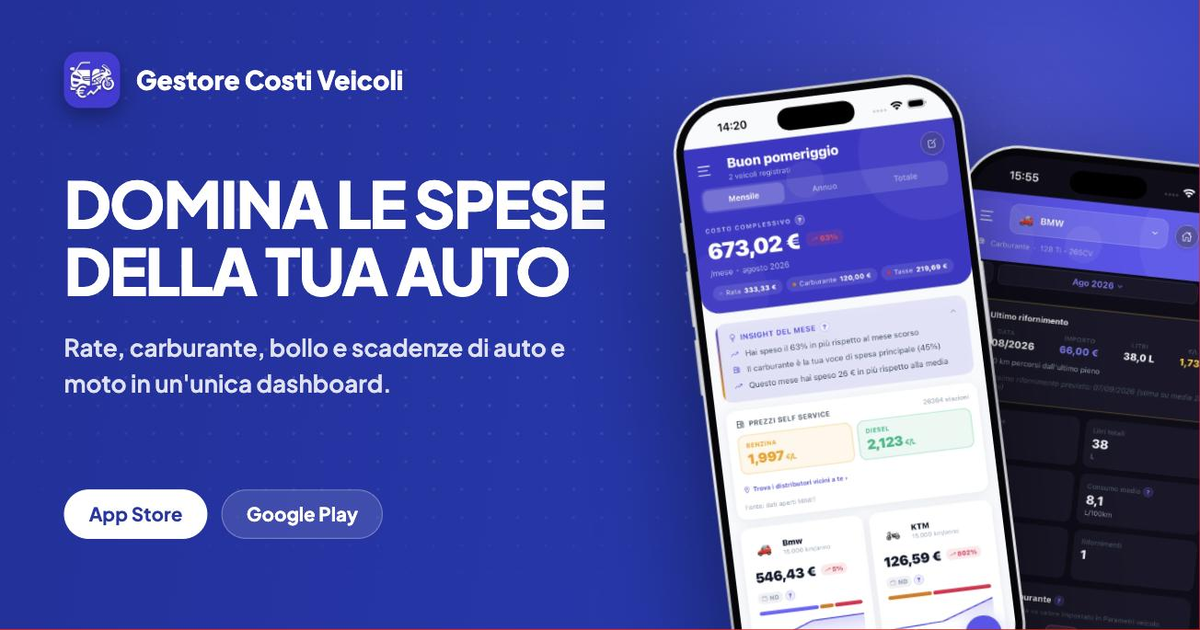
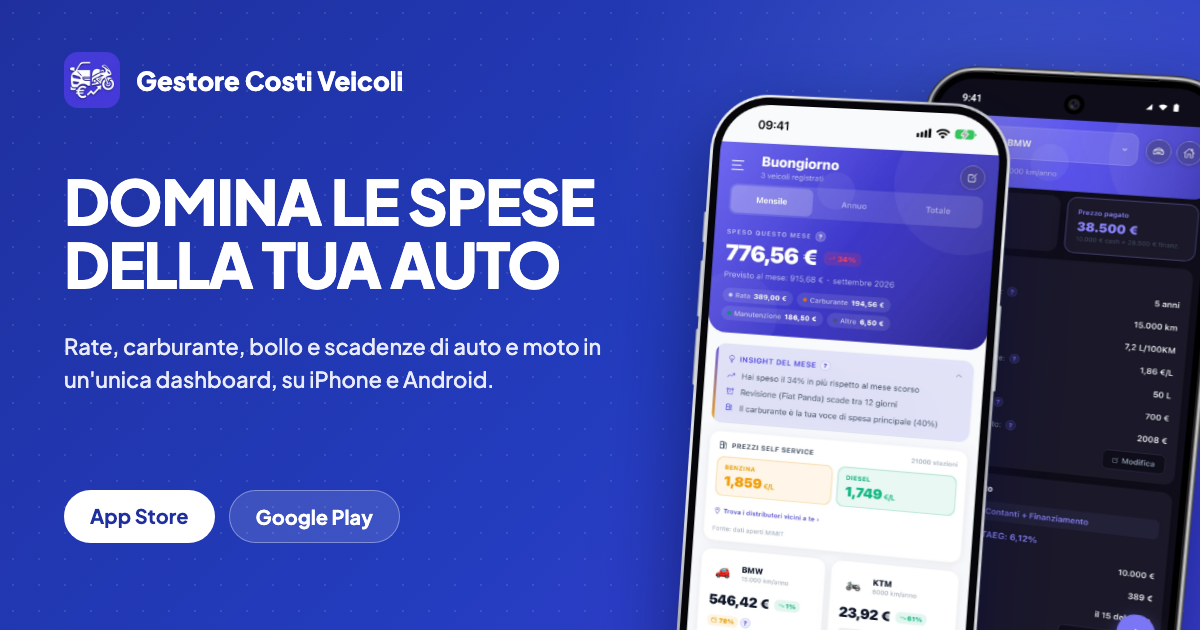
GCV: iPhone e Android alla pari su hero, galleria e widget — hero e og:image con iPhone e Pixel, galleria col selettore iPhone/Android (schermate Android provvisorie nel Pixel 10 Pro), widget nuovi di ottobre con lo stesso collage sulle due piattaforme e il riquadro tonale su Android

diff --git a/progetti/gestore-costi-veicoli.html b/progetti/gestore-costi-veicoli.html
@@ -224,19 +224,26 @@
      riposizionati in percentuale dentro un contenitore con aspect-ratio fisso, così
      la composizione scala identica a ogni larghezza. Le card sono .widget-mockup:
      float + tilt 3D via ../assets/widget-interactive.js. */
-  .wz-collage{ position:relative; width:100%; aspect-ratio:2280/1355; }
+  /* widget di ottobre: grande scuro a sinistra, piccolo in alto a destra (Budget su iPhone, riquadro
+     tonale su Android), medio in basso a destra. Stessa composizione sulle due piattaforme. */
+  .wz-collage{ position:relative; width:100%; aspect-ratio:100/88; }
   .wz-card{ position:absolute; height:auto; filter:drop-shadow(0 30px 50px rgba(0,0,0,.55)); }
-  .wz-azioni{ left:17.7%; top:8.3%;  width:28.9%; z-index:2; }
-  .wz-dark{   left:48.4%; top:11.7%; width:47.2%; z-index:1; }
-  .wz-light{  left:1.9%;  top:62.8%; width:44%;   z-index:3; }
-  .wz-badge-top{ top:-2%; right:-1%; z-index:4 }
-  .wz-badge-mid{ left:68%; top:86%; z-index:4 }
+  .wz-grande{ left:0;   top:2%;  width:58%; z-index:1; }
+  .wz-piccolo{ left:66%; top:6%;  width:28%; z-index:2; }
+  .wz-medio{  left:36%; top:66%; width:64%; z-index:3; }
+  .wz-badge-top{ top:-4%; right:-1%; z-index:4 }
+  .wz-badge-mid{ left:0; bottom:-9%; z-index:4 }
+  #widget .wz-collage{ margin-bottom:28px }
+  .wz-tonale{ box-sizing:border-box; aspect-ratio:1; border-radius:17%; background:#E9E5FF; color:#1A1830; padding:2.6%; display:flex; flex-direction:column; justify-content:space-between; container-type:inline-size; font-family:Roboto, 'Plus Jakarta Sans', system-ui, sans-serif; }
+  .wz-tonale__mese{ font-size:10cqw; font-weight:700; color:#5B4FE0; }
+  .wz-tonale__tot{ font-size:19cqw; font-weight:800; letter-spacing:-.02em; line-height:1; }
+  .wz-tonale__trend{ font-size:9.5cqw; font-weight:700; color:#C23764; }
+  .wz-tonale__btn{ display:block; text-align:center; background:#5B4FE0; color:#fff; border-radius:12cqw; font-size:10.5cqw; font-weight:700; padding:6cqw 0; }
   /* fascia desktop stretta: il collage si riduce ma i badge in px no — ridimensionati
      e ancorati a destra per non sbordare dal pannello (deve stare DOPO le regole base
      dei .wz-badge, stessa specificità: vince l'ultima) */
   @media (min-width:861px) and (max-width:1100px){
     .widget-floating-badge{ font-size:11.5px; padding:8px 12px; gap:6px }
-    .wz-badge-mid{ left:auto; right:0 }
   }
   .wz-chip{
     display:inline-block; background:rgba(255,255,255,.06); border:1px solid rgba(255,255,255,.14);
@@ -670,11 +677,11 @@
     #widget div.widget-griglia-2{grid-template-columns:1fr !important}
     #watch div.watch-griglia-2{grid-template-columns:1fr !important}
     #recensioni div.recensioni-griglia-3{grid-template-columns:1fr !important}
-    #widget .widget-mockups{margin-top:32px}
+    #widget .widget-mockups{margin:32px 0 44px}
     /* i badge hanno font/padding in px fissi: sul collage ristretto vanno ridotti,
-       e il badge centrale ancorato a destra per non coprire il footer della card */
+       e il badge in basso scende sotto il collage per non coprire il widget medio */
     .widget-floating-badge{font-size:11px;padding:7px 11px;gap:6px}
-    .wz-badge-mid{left:auto;right:1%}
+    .wz-badge-mid{bottom:-12%}
     #hero{padding-bottom:60px !important}
     .hero-copy{flex-direction:column !important}
     .hero-copy > div:last-child{flex-shrink:0 !important;min-height:480px !important;padding:12px 0 40px !important}
@@ -868,7 +875,7 @@
       <div class="widget-mockups" style="flex:1 1 380px;min-width:0;position:relative;display:flex;align-items:center;justify-content:center;min-height:380px;padding:20px 0 60px">
         <div style="position:relative;z-index:2;width:min(510px,90vw);margin-top:60px">
           <div style="transform:scale(1.25)">
-            <img width="1400" height="1422" class="widget-mockup" src="../assets/screenshots/hero-duo-mockup.webp" alt="Gestore Costi Veicoli su due telefoni: dashboard e sincronizzazione" fetchpriority="high" style="width:100%;display:block;filter:drop-shadow(0 40px 70px rgba(0,0,0,.5));--base-rot:0deg;--base-y:0px">
+            <img width="1400" height="1422" class="widget-mockup" src="../assets/screenshots/hero-duo-mockup.webp" alt="Gestore Costi Veicoli su iPhone e su un telefono Android: la dashboard del mese e la scheda di un veicolo" fetchpriority="high" style="width:100%;display:block;filter:drop-shadow(0 40px 70px rgba(0,0,0,.5));--base-rot:0deg;--base-y:0px">
           </div>
         </div>
       </div>
@@ -1197,10 +1204,16 @@
     <div style="text-align:center;max-width:640px;margin:0 auto 48px">
       <h2 style="margin:0 0 16px;font-size:38px;font-weight:800;letter-spacing:-0.5px">Guarda l'app in azione</h2>
       <p class="t-medio" style="margin:0 0 20px;color:#4B4566;font-size:17px;line-height:1.6">Un'interfaccia semplice, pensata per chi vuole capire davvero quanto spende.</p>
+      <div style="display:flex;flex-wrap:wrap;gap:12px;justify-content:center;align-items:center">
+      <div class="os-switch" role="group" aria-label="Schermate su iPhone o su Android">
+        <button type="button" data-os-scelta="ios" aria-pressed="true"><svg viewBox="0 0 384 512" aria-hidden="true"><path d="M318.7 268.7c-.2-36.7 16.4-64.4 50-84.8-18.8-26.9-47.2-41.7-84.7-44.6-35.5-2.8-74.3 20.7-88.5 20.7-15 0-49.4-19.7-76.4-19.2C56.9 141.5 4 184.8 4 273.1c0 26.1 4.8 53.1 14.3 80.9 12.8 37.4 58.9 129 106.9 127.5 25.2-.6 43-17.9 75.8-17.9 31.8 0 48.3 17.9 76.4 17.9 48.4-.7 90.2-83.9 102.4-121.4-65.2-30.8-61.1-90.2-61.1-91.4zM255.7 60.5c26.5-31.5 24.1-60.1 23.4-70.5-23.6 1.4-51 16.4-66.5 34.6-17 19.4-27 43.5-24.8 69.7 24.9 1.9 47.5-12.6 67.9-33.8z"/></svg>iPhone</button>
+        <button type="button" data-os-scelta="android" aria-pressed="false"><svg viewBox="0 0 24 24" aria-hidden="true"><path d="M17.6 9.5l1.8-3.1a.4.4 0 0 0-.7-.4l-1.8 3.2A11 11 0 0 0 12 8.2c-1.8 0-3.4.4-4.9 1L5.3 6a.4.4 0 0 0-.7.4l1.8 3.1A10.4 10.4 0 0 0 1 17.8h22a10.4 10.4 0 0 0-5.4-8.3zM7 15.3a1 1 0 1 1 0-2 1 1 0 0 1 0 2zm10 0a1 1 0 1 1 0-2 1 1 0 0 1 0 2z"/></svg>Android</button>
+      </div>
       <button class="sup-lilla t-viola" type="button" id="gallery-theme-toggle" aria-pressed="false" style="display:inline-flex;align-items:center;gap:8px;background:#F1EEFF;color:#4B3FE3;font-weight:700;font-size:13.5px;padding:8px 16px;border-radius:100px;border:none;cursor:pointer">
         <svg width="15" height="15" viewBox="0 0 24 24" aria-hidden="true"><path fill="currentColor" d="M12 2a10 10 0 1 0 0 20 10 10 0 0 0 0-20zm0 18V4a8 8 0 0 1 0 16z"/></svg>
         <span data-label>Guarda in tema scuro</span>
       </button>
+      </div>
     </div>
 
     <div class="section-panel">
@@ -1213,34 +1226,34 @@
 
         <div class="deck-stack">
           <div class="deck-card" id="gallery-card-1" role="group" aria-roledescription="slide" aria-label="1 di 10">
-            <img width="880" height="1820" loading="lazy" class="gallery-card-img" src="../assets/screenshots/deck-dashboard.webp" data-src-light="../assets/screenshots/deck-dashboard.webp" data-src-dark="../assets/screenshots/deck-dashboard-dark.webp" alt="Dashboard di Gestore Costi Veicoli">
+            <img width="880" height="1820" loading="lazy" class="gallery-card-img" src="../assets/screenshots/deck-dashboard.webp" data-src-light="../assets/screenshots/deck-dashboard.webp" data-src-dark="../assets/screenshots/deck-dashboard-dark.webp" data-src-android="../assets/screenshots/deck-dashboard-android.webp" data-src-android-dark="../assets/screenshots/deck-dashboard-android-dark.webp" alt="Dashboard di Gestore Costi Veicoli">
           </div>
           <div class="deck-card" id="gallery-card-2" role="group" aria-roledescription="slide" aria-label="2 di 10">
-            <img width="880" height="1820" loading="lazy" class="gallery-card-img" src="../assets/screenshots/deck-dettaglio-veicolo.webp" data-src-light="../assets/screenshots/deck-dettaglio-veicolo.webp" data-src-dark="../assets/screenshots/deck-dettaglio-veicolo-dark.webp" alt="Scheda veicolo in Gestore Costi Veicoli">
+            <img width="880" height="1820" loading="lazy" class="gallery-card-img" src="../assets/screenshots/deck-dettaglio-veicolo.webp" data-src-light="../assets/screenshots/deck-dettaglio-veicolo.webp" data-src-dark="../assets/screenshots/deck-dettaglio-veicolo-dark.webp" data-src-android="../assets/screenshots/deck-dettaglio-veicolo-android.webp" data-src-android-dark="../assets/screenshots/deck-dettaglio-veicolo-android-dark.webp" alt="Scheda veicolo in Gestore Costi Veicoli">
           </div>
           <div class="deck-card" id="gallery-card-3" role="group" aria-roledescription="slide" aria-label="3 di 10">
-            <img width="880" height="1820" loading="lazy" class="gallery-card-img" src="../assets/screenshots/deck-tragitti.webp" data-src-light="../assets/screenshots/deck-tragitti.webp" data-src-dark="../assets/screenshots/deck-tragitti-dark.webp" alt="Tragitti rilevati in auto in Gestore Costi Veicoli">
+            <img width="880" height="1820" loading="lazy" class="gallery-card-img" src="../assets/screenshots/deck-tragitti.webp" data-src-light="../assets/screenshots/deck-tragitti.webp" data-src-dark="../assets/screenshots/deck-tragitti-dark.webp" data-src-android="../assets/screenshots/deck-tragitti-android.webp" data-src-android-dark="../assets/screenshots/deck-tragitti-android-dark.webp" alt="Tragitti rilevati in auto in Gestore Costi Veicoli">
           </div>
           <div class="deck-card" id="gallery-card-4" role="group" aria-roledescription="slide" aria-label="4 di 10">
-            <img width="880" height="1820" loading="lazy" class="gallery-card-img" src="../assets/screenshots/deck-assistente.webp" data-src-light="../assets/screenshots/deck-assistente.webp" data-src-dark="../assets/screenshots/deck-assistente-dark.webp" alt="Assistente di Gestore Costi Veicoli">
+            <img width="880" height="1820" loading="lazy" class="gallery-card-img" src="../assets/screenshots/deck-assistente.webp" data-src-light="../assets/screenshots/deck-assistente.webp" data-src-dark="../assets/screenshots/deck-assistente-dark.webp" data-src-android="../assets/screenshots/deck-assistente-android.webp" data-src-android-dark="../assets/screenshots/deck-assistente-android-dark.webp" alt="Assistente di Gestore Costi Veicoli">
           </div>
           <div class="deck-card" id="gallery-card-5" role="group" aria-roledescription="slide" aria-label="5 di 10">
-            <img width="880" height="1820" loading="lazy" class="gallery-card-img" src="../assets/screenshots/deck-previsione.webp" data-src-light="../assets/screenshots/deck-previsione.webp" data-src-dark="../assets/screenshots/deck-previsione-dark.webp" alt="Previsione dei prossimi 12 mesi in Gestore Costi Veicoli">
+            <img width="880" height="1820" loading="lazy" class="gallery-card-img" src="../assets/screenshots/deck-previsione.webp" data-src-light="../assets/screenshots/deck-previsione.webp" data-src-dark="../assets/screenshots/deck-previsione-dark.webp" data-src-android="../assets/screenshots/deck-previsione-android.webp" data-src-android-dark="../assets/screenshots/deck-previsione-android-dark.webp" alt="Previsione dei prossimi 12 mesi in Gestore Costi Veicoli">
           </div>
           <div class="deck-card" id="gallery-card-6" role="group" aria-roledescription="slide" aria-label="6 di 10">
-            <img width="880" height="1820" loading="lazy" class="gallery-card-img" src="../assets/screenshots/deck-carburante.webp" data-src-light="../assets/screenshots/deck-carburante.webp" data-src-dark="../assets/screenshots/deck-carburante-dark.webp" alt="Carburante in Gestore Costi Veicoli">
+            <img width="880" height="1820" loading="lazy" class="gallery-card-img" src="../assets/screenshots/deck-carburante.webp" data-src-light="../assets/screenshots/deck-carburante.webp" data-src-dark="../assets/screenshots/deck-carburante-dark.webp" data-src-android="../assets/screenshots/deck-carburante-android.webp" data-src-android-dark="../assets/screenshots/deck-carburante-android-dark.webp" alt="Carburante in Gestore Costi Veicoli">
           </div>
           <div class="deck-card" id="gallery-card-7" role="group" aria-roledescription="slide" aria-label="7 di 10">
-            <img width="880" height="1820" loading="lazy" class="gallery-card-img" src="../assets/screenshots/deck-scadenze.webp" data-src-light="../assets/screenshots/deck-scadenze.webp" data-src-dark="../assets/screenshots/deck-scadenze-dark.webp" alt="Scadenze in Gestore Costi Veicoli">
+            <img width="880" height="1820" loading="lazy" class="gallery-card-img" src="../assets/screenshots/deck-scadenze.webp" data-src-light="../assets/screenshots/deck-scadenze.webp" data-src-dark="../assets/screenshots/deck-scadenze-dark.webp" data-src-android="../assets/screenshots/deck-scadenze-android.webp" data-src-android-dark="../assets/screenshots/deck-scadenze-android-dark.webp" alt="Scadenze in Gestore Costi Veicoli">
           </div>
           <div class="deck-card" id="gallery-card-8" role="group" aria-roledescription="slide" aria-label="8 di 10">
-            <img width="880" height="1820" loading="lazy" class="gallery-card-img" src="../assets/screenshots/deck-garage.webp" data-src-light="../assets/screenshots/deck-garage.webp" data-src-dark="../assets/screenshots/deck-garage-dark.webp" alt="Garage di Gestore Costi Veicoli">
+            <img width="880" height="1820" loading="lazy" class="gallery-card-img" src="../assets/screenshots/deck-garage.webp" data-src-light="../assets/screenshots/deck-garage.webp" data-src-dark="../assets/screenshots/deck-garage-dark.webp" data-src-android="../assets/screenshots/deck-garage-android.webp" data-src-android-dark="../assets/screenshots/deck-garage-android-dark.webp" alt="Garage di Gestore Costi Veicoli">
           </div>
           <div class="deck-card" id="gallery-card-9" role="group" aria-roledescription="slide" aria-label="9 di 10">
-            <img width="880" height="1820" loading="lazy" class="gallery-card-img" src="../assets/screenshots/deck-viaggi.webp" data-src-light="../assets/screenshots/deck-viaggi.webp" data-src-dark="../assets/screenshots/deck-viaggi-dark.webp" alt="Dettaglio di un viaggio in Gestore Costi Veicoli">
+            <img width="880" height="1820" loading="lazy" class="gallery-card-img" src="../assets/screenshots/deck-viaggi.webp" data-src-light="../assets/screenshots/deck-viaggi.webp" data-src-dark="../assets/screenshots/deck-viaggi-dark.webp" data-src-android="../assets/screenshots/deck-viaggi-android.webp" data-src-android-dark="../assets/screenshots/deck-viaggi-android-dark.webp" alt="Dettaglio di un viaggio in Gestore Costi Veicoli">
           </div>
           <div class="deck-card" id="gallery-card-10" role="group" aria-roledescription="slide" aria-label="10 di 10">
-            <img width="880" height="1820" loading="lazy" class="gallery-card-img" src="../assets/screenshots/deck-impostazioni.webp" data-src-light="../assets/screenshots/deck-impostazioni.webp" data-src-dark="../assets/screenshots/deck-impostazioni-dark.webp" alt="Impostazioni di Gestore Costi Veicoli">
+            <img width="880" height="1820" loading="lazy" class="gallery-card-img" src="../assets/screenshots/deck-impostazioni.webp" data-src-light="../assets/screenshots/deck-impostazioni.webp" data-src-dark="../assets/screenshots/deck-impostazioni-dark.webp" data-src-android="../assets/screenshots/deck-impostazioni-android.webp" data-src-android-dark="../assets/screenshots/deck-impostazioni-android-dark.webp" alt="Impostazioni di Gestore Costi Veicoli">
           </div>
         </div>
 
@@ -1375,71 +1388,47 @@
       <div class="anim-drift" aria-hidden="true" style="position:absolute;top:-140px;right:-100px;width:460px;height:460px;border-radius:50%;background:radial-gradient(circle,rgba(139,123,250,.35),transparent 62%);filter:blur(20px);animation:gcvDrift 24s ease-in-out infinite alternate"></div>
       <div class="widget-griglia-2" style="position:relative;display:grid;grid-template-columns:minmax(0,1fr) minmax(0,1fr);gap:56px;align-items:center">
         <div>
-          <span style="display:inline-flex;align-items:center;gap:9px;font-size:12.5px;font-weight:800;letter-spacing:.1em;text-transform:uppercase;color:#A99DFF;border:1px solid rgba(169,157,255,.35);border-radius:100px;padding:9px 18px;margin-bottom:22px"><span aria-hidden="true" style="width:7px;height:7px;border-radius:50%;background:#8B7BFA"></span>Widget e smartwatch</span>
+          <span style="display:inline-flex;align-items:center;gap:9px;font-size:12.5px;font-weight:800;letter-spacing:.1em;text-transform:uppercase;color:#A99DFF;border:1px solid rgba(169,157,255,.35);border-radius:100px;padding:9px 18px;margin-bottom:22px"><span aria-hidden="true" style="width:7px;height:7px;border-radius:50%;background:#8B7BFA"></span>Widget</span>
           <h2 style="margin:0 0 16px;font-size:44px;font-weight:800;letter-spacing:-1.2px;line-height:1.1;color:#fff">Anche dalla Home, <span style="color:#8B7BFA">senza aprire l'</span><span style="color:#4FE3C1">app</span>.</h2>
           <div class="os-switch os-switch--scuro" role="group" aria-label="Widget per iPhone o per Android" style="margin-bottom:26px">
             <button type="button" data-os-scelta="ios" aria-pressed="true"><svg viewBox="0 0 384 512" aria-hidden="true"><path d="M318.7 268.7c-.2-36.7 16.4-64.4 50-84.8-18.8-26.9-47.2-41.7-84.7-44.6-35.5-2.8-74.3 20.7-88.5 20.7-15 0-49.4-19.7-76.4-19.2C56.9 141.5 4 184.8 4 273.1c0 26.1 4.8 53.1 14.3 80.9 12.8 37.4 58.9 129 106.9 127.5 25.2-.6 43-17.9 75.8-17.9 31.8 0 48.3 17.9 76.4 17.9 48.4-.7 90.2-83.9 102.4-121.4-65.2-30.8-61.1-90.2-61.1-91.4zM255.7 60.5c26.5-31.5 24.1-60.1 23.4-70.5-23.6 1.4-51 16.4-66.5 34.6-17 19.4-27 43.5-24.8 69.7 24.9 1.9 47.5-12.6 67.9-33.8z"/></svg>iPhone</button>
             <button type="button" data-os-scelta="android" aria-pressed="false"><svg viewBox="0 0 24 24" aria-hidden="true"><path d="M17.6 9.5l1.8-3.1a.4.4 0 0 0-.7-.4l-1.8 3.2A11 11 0 0 0 12 8.2c-1.8 0-3.4.4-4.9 1L5.3 6a.4.4 0 0 0-.7.4l1.8 3.1A10.4 10.4 0 0 0 1 17.8h22a10.4 10.4 0 0 0-5.4-8.3zM7 15.3a1 1 0 1 1 0-2 1 1 0 0 1 0 2zm10 0a1 1 0 1 1 0-2 1 1 0 0 1 0 2z"/></svg>Android</button>
           </div>
-          <p data-os-solo="ios" style="margin:0 0 28px;font-size:16.5px;line-height:1.7;color:#B3AECB;max-width:440px">Due widget pensati per iOS: uno per il colpo d'occhio sulla spesa, uno per registrare in un tap. E dal polso, con l'app nativa per Apple Watch.</p>
-          <p data-os-solo="android" style="margin:0 0 28px;font-size:16.5px;line-height:1.7;color:#B3AECB;max-width:440px">Gli stessi due widget sulla schermata Home di Android, ridimensionabili e nei colori del tuo tema. E dal polso, con l'app per Wear OS.</p>
+          <p data-os-solo="ios" style="margin:0 0 28px;font-size:16.5px;line-height:1.7;color:#B3AECB;max-width:440px">Sette widget per la Home e la schermata di blocco: il mese a colpo d'occhio, la spesa per veicolo, il budget, la prossima scadenza e le azioni rapide. In piccolo, medio o grande, chiari o scuri.</p>
+          <p data-os-solo="android" style="margin:0 0 28px;font-size:16.5px;line-height:1.7;color:#B3AECB;max-width:440px">Gli stessi widget sulla Home di Android, ridimensionabili a piacere. In più il riquadro tonale, nei colori del tuo tema, con il totale del mese e «+ Spesa».</p>
           <div class="wz-lista" style="display:flex;flex-direction:column;gap:16px;margin-bottom:30px">
             <div style="display:flex;gap:14px;align-items:flex-start;background:rgba(255,255,255,.05);border:1px solid rgba(255,255,255,.09);border-radius:18px;padding:18px 20px">
               <span style="display:flex;align-items:center;justify-content:center;width:36px;height:36px;border-radius:12px;background:#6C5CE7;flex-shrink:0"><svg width="18" height="18" viewBox="0 0 24 24" fill="none" stroke="#fff" stroke-width="2.2" stroke-linecap="round" stroke-linejoin="round"><path d="M12 5v14M5 12h14"/></svg></span>
-              <span><strong style="display:block;color:#fff;font-size:16px;margin-bottom:4px">Azioni rapide</strong><span style="color:#B3AECB;font-size:14.5px;line-height:1.6">Aggiungi una spesa o una scadenza dalla Home, senza aprire l'app.<span data-os-solo="android"> E tenendo premuta l'icona, le scorciatoie per andare dritto al modulo.</span></span></span>
+              <span><strong style="display:block;color:#fff;font-size:16px;margin-bottom:4px">Azioni rapide</strong><span style="color:#B3AECB;font-size:14.5px;line-height:1.6">Spesa, pieno, scadenza o km in un tocco, con gli ultimi movimenti sotto mano.<span data-os-solo="android"> E tenendo premuta l'icona, le scorciatoie per andare dritto al modulo.</span></span></span>
             </div>
             <div style="display:flex;gap:14px;align-items:flex-start;background:rgba(255,255,255,.05);border:1px solid rgba(255,255,255,.09);border-radius:18px;padding:18px 20px">
               <span style="display:flex;align-items:center;justify-content:center;width:36px;height:36px;border-radius:12px;background:#6C5CE7;flex-shrink:0"><svg width="18" height="18" viewBox="0 0 24 24" fill="none" stroke="#fff" stroke-width="2.2" stroke-linecap="round" stroke-linejoin="round"><path d="M4 19V9M10 19V5M16 19v-7M22 19H2"/></svg></span>
-              <span><strong style="display:block;color:#fff;font-size:16px;margin-bottom:4px">Tutti i veicoli, a colpo d'occhio</strong><span style="color:#B3AECB;font-size:14.5px;line-height:1.6">Il totale del mese con il dettaglio per categoria, in formato medio o grande.</span></span>
+              <span><strong style="display:block;color:#fff;font-size:16px;margin-bottom:4px">Il mese a colpo d'occhio</strong><span style="color:#B3AECB;font-size:14.5px;line-height:1.6">Il totale con il confronto sul mese prima, la spesa di ogni veicolo, l'andamento degli ultimi sei mesi e quanto resta del budget.</span></span>
             </div>
           </div>
           <div style="display:flex;align-items:center;gap:12px;flex-wrap:wrap">
             <span style="color:#8A84A6;font-size:14.5px">Disponibile con</span>
             <span class="wz-chip" data-os-solo="ios">iOS 17+</span>
-            <span class="wz-chip" data-os-solo="ios">watchOS 10+</span>
             <span class="wz-chip" data-os-solo="android">Android 7+</span>
-            <span class="wz-chip" data-os-solo="android">Wear OS 3+</span>
             <span class="wz-chip wz-chip--arrivo" data-os-solo="android">In arrivo con l'uscita su Google Play</span>
           </div>
         </div>
-        <div class="widget-mockups wz-collage" data-os-solo="ios">
-          <img width="696" height="698" class="widget-mockup wz-card wz-dark" src="../assets/widget-tutti-dark.webp" alt="Widget Tutti i veicoli in formato grande, tema scuro: totale del mese, trend e dettaglio per categoria" loading="lazy" style="--base-y:0px">
-          <img width="310" height="308" class="widget-mockup wz-card wz-azioni" src="../assets/widget-azioni-card.webp" alt="Widget Azioni rapide, tema chiaro: nuova spesa e nuova scadenza dalla Home" loading="lazy" style="--base-y:8px;animation-delay:.5s">
-          <img width="696" height="303" class="widget-mockup wz-card wz-light" src="../assets/widget-tutti-light.webp" alt="Widget Tutti i veicoli in formato medio, tema chiaro, con gli importi per categoria" loading="lazy" style="--base-y:4px;animation-delay:1s">
+        <div class="widget-mockups wz-collage">
+          <img width="760" height="793" class="widget-mockup wz-card wz-grande" src="../assets/widget-per-veicolo-dark.webp" alt="Widget Per veicolo in formato grande, tema scuro: 1.120 euro a settembre su 4 veicoli, con la spesa di ciascuno" loading="lazy" style="--base-y:0px">
+          <img width="360" height="360" class="widget-mockup wz-card wz-piccolo" data-os-solo="ios" src="../assets/widget-budget.webp" alt="Widget Budget in formato piccolo, tema chiaro: 185 euro oltre il budget del mese" loading="lazy" style="--base-y:8px;animation-delay:.5s">
+          <div class="widget-mockup wz-card wz-piccolo wz-tonale" data-os-solo="android" role="img" aria-label="Riquadro tonale Android: 1.120 euro a settembre, più 51 per cento, con il tasto più spesa" style="--base-y:8px;animation-delay:.5s">
+            <span class="wz-tonale__mese" aria-hidden="true">Settembre</span>
+            <span class="wz-tonale__tot" aria-hidden="true">1.120 €</span>
+            <span class="wz-tonale__trend" aria-hidden="true">▲ 51%</span>
+            <span class="wz-tonale__btn" aria-hidden="true">+ Spesa</span>
+          </div>
+          <img width="760" height="352" class="widget-mockup wz-card wz-medio" src="../assets/widget-azioni-rapide.webp" alt="Widget Azioni rapide in formato medio, tema chiaro: più spesa, pieno, scadenza e km" loading="lazy" style="--base-y:4px;animation-delay:1s">
           <span class="widget-floating-badge wz-badge-top">
             <span aria-hidden="true" style="width:8px;height:8px;border-radius:50%;background:#22C55E;flex-shrink:0"></span>
             Si aggiorna quando usi l'app
           </span>
           <span class="widget-floating-badge wz-badge-mid">
             <span aria-hidden="true" style="display:inline-flex;align-items:center;justify-content:center;width:22px;height:22px;border-radius:50%;background:#1B1830;flex-shrink:0"><svg width="12" height="12" viewBox="0 0 24 24" fill="none" stroke="#A99DFF" stroke-width="2.6" stroke-linecap="round"><path d="M12 5v14M5 12h14"/></svg></span>
-            Spesa registrata in 1 tap
-          </span>
-        </div>
-        <div class="widget-mockups and-collage" data-os-solo="android" role="img" aria-label="Widget Android disegnati: Azioni rapide con Nuova spesa e Nuova scadenza, e Tutti i veicoli con il totale del mese e il dettaglio per categoria">
-          <div class="and-w widget-mockup" style="--base-y:8px" aria-hidden="true">
-            <div class="and-w__tit"><img src="../assets/gestore-costi-veicoli-logo.png" alt="" width="18" height="18">Azioni rapide</div>
-            <div class="and-w__azioni">
-              <span class="and-w__btn"><svg viewBox="0 0 24 24" fill="none" stroke="currentColor" stroke-width="2.4" stroke-linecap="round"><path d="M12 5v14M5 12h14"/></svg>Nuova spesa</span>
-              <span class="and-w__btn and-w__btn--tono"><svg viewBox="0 0 24 24" fill="none" stroke="currentColor" stroke-width="2.2" stroke-linecap="round" stroke-linejoin="round"><path d="M18 8a6 6 0 1 0-12 0c0 7-3 9-3 9h18s-3-2-3-9"/></svg>Nuova scadenza</span>
-            </div>
-          </div>
-          <div class="and-w and-w--scuro widget-mockup" style="--base-y:0px;animation-delay:.5s" aria-hidden="true">
-            <div class="and-w__tit"><img src="../assets/gestore-costi-veicoli-logo.png" alt="" width="18" height="18">Tutti i veicoli</div>
-            <div class="and-w__tot">412 €</div>
-            <div class="and-w__sub">speso a ottobre · 2 veicoli</div>
-            <div class="and-w__righe">
-                <div class="and-w__riga"><span>Carburante</span><span>148 €</span><div class="and-w__barra"><span style="width:62%;background:#F08A3C"></span></div></div>
-                <div class="and-w__riga"><span>Rata</span><span>150 €</span><div class="and-w__barra"><span style="width:64%;background:#4B3FE3"></span></div></div>
-                <div class="and-w__riga"><span>Manutenzione</span><span>74 €</span><div class="and-w__barra"><span style="width:31%;background:#2FAE7C"></span></div></div>
-                <div class="and-w__riga"><span>Assicurazione</span><span>40 €</span><div class="and-w__barra"><span style="width:17%;background:#3B7DDB"></span></div></div>
-            </div>
-          </div>
-          <span class="widget-floating-badge and-badge-top" aria-hidden="true">
-            <span style="width:8px;height:8px;border-radius:50%;background:#22C55E;flex-shrink:0"></span>
-            Si aggiorna quando usi l'app
-          </span>
-          <span class="widget-floating-badge and-badge-bot" aria-hidden="true">
-            <span style="display:inline-flex;align-items:center;justify-content:center;width:22px;height:22px;border-radius:50%;background:#1B1830;flex-shrink:0"><svg width="12" height="12" viewBox="0 0 24 24" fill="none" stroke="#A99DFF" stroke-width="2.6" stroke-linecap="round"><path d="M12 5v14M5 12h14"/></svg></span>
             Spesa registrata in 1 tap
           </span>
         </div>

diff --git a/assets/gallery-theme.js b/assets/gallery-theme.js
@@ -6,18 +6,26 @@
   var label = btn.querySelector('[data-label]');
   var reduceMotion = window.matchMedia && matchMedia('(prefers-reduced-motion: reduce)').matches;
 
+  // la piattaforma la sceglie assets/piattaforma.js (data-os su <html>): iPhone o Android
+  function android() {
+    return document.documentElement.getAttribute('data-os') === 'android';
+  }
+
+  function scuro() {
+    return btn.getAttribute('aria-pressed') === 'true';
+  }
+
   function swap(toDark) {
+    var and = android();
     imgs.forEach(function (img) {
-      img.src = img.getAttribute(toDark ? 'data-src-dark' : 'data-src-light');
+      var attr = and ? (toDark ? 'data-src-android-dark' : 'data-src-android')
+                     : (toDark ? 'data-src-dark' : 'data-src-light');
+      var src = img.getAttribute(attr) || img.getAttribute(toDark ? 'data-src-dark' : 'data-src-light');
+      if (img.getAttribute('src') !== src) img.src = src;
     });
   }
 
-  // stato del bottone e degli screenshot, sempre insieme: erano queste due cose
-  // a divergere quando il tema cambiava da fuori
-  function applica(toDark, animato) {
-    btn.setAttribute('aria-pressed', toDark ? 'true' : 'false');
-    if (label) label.textContent = toDark ? 'Guarda in tema chiaro' : 'Guarda in tema scuro';
-
+  function dissolvi(toDark, animato) {
     if (!animato || reduceMotion) {
       swap(toDark);
       return;
@@ -29,11 +37,19 @@
     }, 220);
   }
 
-  // se la pagina parte in dark mode, il carosello parte con gli screenshot scuri
-  if (document.documentElement.classList.contains('dark')) applica(true, false);
+  // stato del bottone e degli screenshot, sempre insieme: erano queste due cose
+  // a divergere quando il tema cambiava da fuori
+  function applica(toDark, animato) {
+    btn.setAttribute('aria-pressed', toDark ? 'true' : 'false');
+    if (label) label.textContent = toDark ? 'Guarda in tema chiaro' : 'Guarda in tema scuro';
+    dissolvi(toDark, animato);
+  }
+
+  // parte col tema della pagina e con la piattaforma scelta (chi arriva da Android vede il Pixel)
+  applica(document.documentElement.classList.contains('dark'), false);
 
   btn.addEventListener('click', function () {
-    applica(btn.getAttribute('aria-pressed') !== 'true', true);
+    applica(!scuro(), true);
   });
 
   // il toggle globale in navbar cambia .dark in qualsiasi momento: senza questo
@@ -41,6 +57,11 @@
   // del bottone che diceva il contrario di quello che avrebbe fatto
   document.addEventListener('temacambiato', function (e) {
     var toDark = !!(e.detail && e.detail.dark);
-    if ((btn.getAttribute('aria-pressed') === 'true') !== toDark) applica(toDark, true);
+    if (scuro() !== toDark) applica(toDark, true);
+  });
+
+  // un selettore iPhone/Android qualsiasi della pagina cambia anche la galleria
+  document.addEventListener('oscambiato', function () {
+    dissolvi(scuro(), true);
   });
 })();

diff --git a/assets/piattaforma.css b/assets/piattaforma.css
@@ -35,33 +35,6 @@ html.dark .os-switch--scuro button[aria-pressed="true"] { background: #fff; colo
 .store-btn--presto:hover { transform: none !important; box-shadow: none !important; }
 .store-btn--presto::before { display: none; }
 
-/* ---------- widget Android (Material You), disegnati in HTML ---------- */
-.and-collage { position: relative; display: grid; grid-template-columns: 1fr 1.35fr; gap: 18px; align-items: start; }
-.and-collage .and-w {
-  display: block; border-radius: 28px; padding: 20px; color: #1C1B1F;
-  background: #F4F0FF; box-shadow: 0 30px 50px -22px rgba(0,0,0,.6);
-  font-family: inherit;
-}
-.and-w--scuro { background: #2A2540; color: #EDE9FF; }
-.and-w__tit { display: flex; align-items: center; gap: 8px; font-size: 12.5px; font-weight: 700; opacity: .75; margin-bottom: 10px; }
-.and-w__tit img { width: 18px; height: 18px; border-radius: 5px; }
-.and-w__tot { font-size: 30px; font-weight: 800; letter-spacing: -1px; line-height: 1.05; }
-.and-w__sub { font-size: 12px; font-weight: 600; opacity: .7; margin-top: 2px; }
-.and-w__righe { display: flex; flex-direction: column; gap: 9px; margin-top: 16px; }
-.and-w__riga { display: grid; grid-template-columns: 1fr auto; gap: 4px 10px; font-size: 12.5px; font-weight: 700; }
-.and-w__barra { grid-column: 1 / -1; height: 7px; border-radius: 100px; background: rgba(127,115,230,.18); overflow: hidden; }
-.and-w__barra span { display: block; height: 100%; border-radius: inherit; }
-.and-w__azioni { display: flex; flex-direction: column; gap: 10px; }
-.and-w__btn {
-  display: flex; align-items: center; gap: 10px; border-radius: 100px; padding: 12px 14px;
-  background: #4B3FE3; color: #fff; font-size: 13.5px; font-weight: 700;
-}
-.and-w__btn--tono { background: #E1DBFF; color: #2A1F9E; }
-.and-w__btn svg { width: 16px; height: 16px; flex-shrink: 0; }
-.and-collage .widget-floating-badge { position: absolute; }
-.and-badge-top { top: -18px; right: 0; z-index: 2; }
-.and-badge-bot { left: 0; bottom: -22px; z-index: 2; }
-
 /* ---------- Wear OS: schermate disegnate in HTML dentro la cassa di un orologio rotondo
    (assets/wearos-cassa.webp: Pixel Watch 4, schermo trasparente). Misure in --u = 1/600 della larghezza
    del contenitore: i tre orologi scalano insieme. */
@@ -131,9 +104,6 @@ html.dark .os-switch--scuro button[aria-pressed="true"] { background: #fff; colo
 .wear__c b { font-size: calc(12 * var(--u)); font-weight: 800; color: #fff; }
 .wear__c i { font-style: normal; font-size: calc(8.5 * var(--u)); font-weight: 600; color: #A9A3C2; }
 
-@media (max-width: 860px) {
-  .and-collage { grid-template-columns: 1fr; max-width: 360px; margin: 0 auto; }
-}
 /* telefono: due schermi invece di tre, più grandi (il primo, «Ottobre», si nasconde) */
 @media (max-width: 560px) {
   .wear-duo > * { --u: calc(100cqw / 470); }
